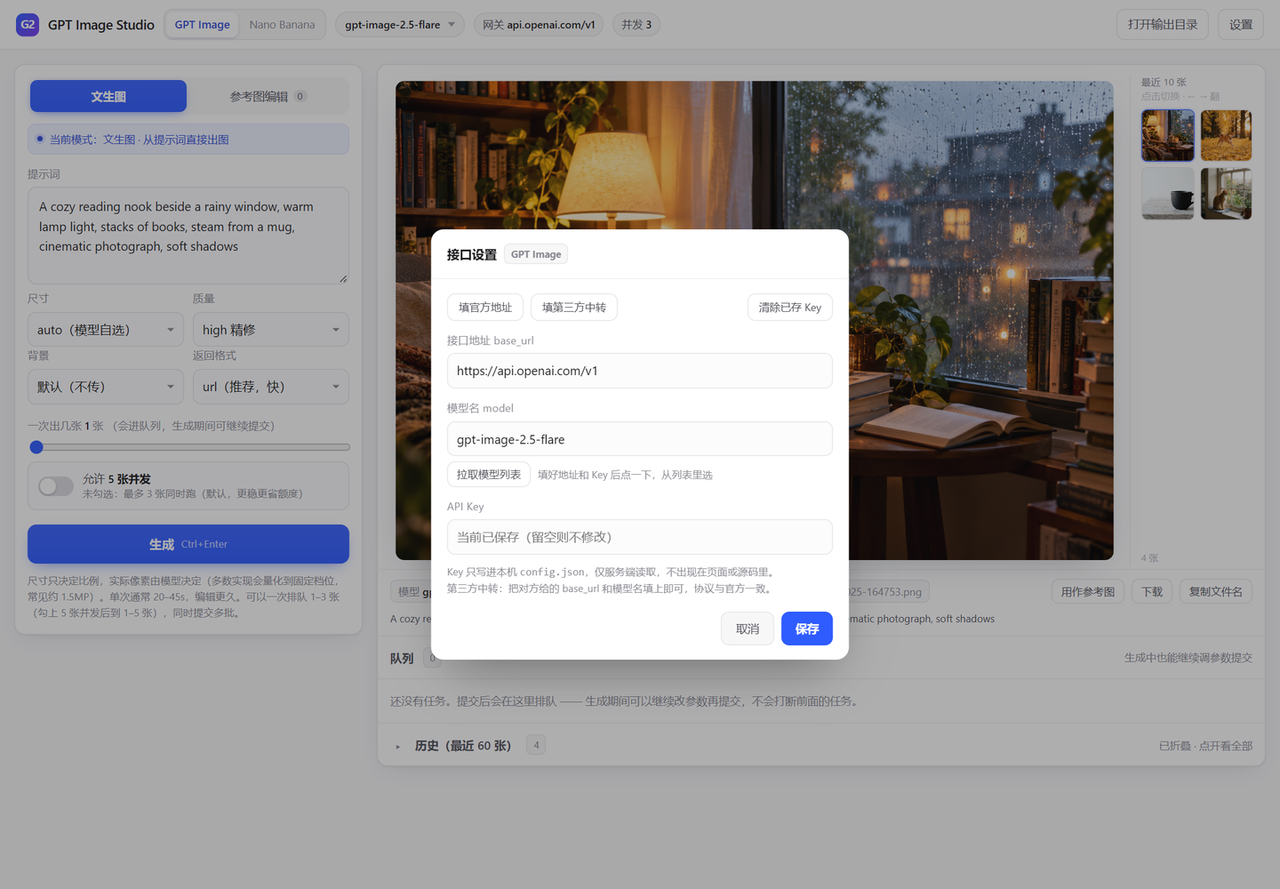
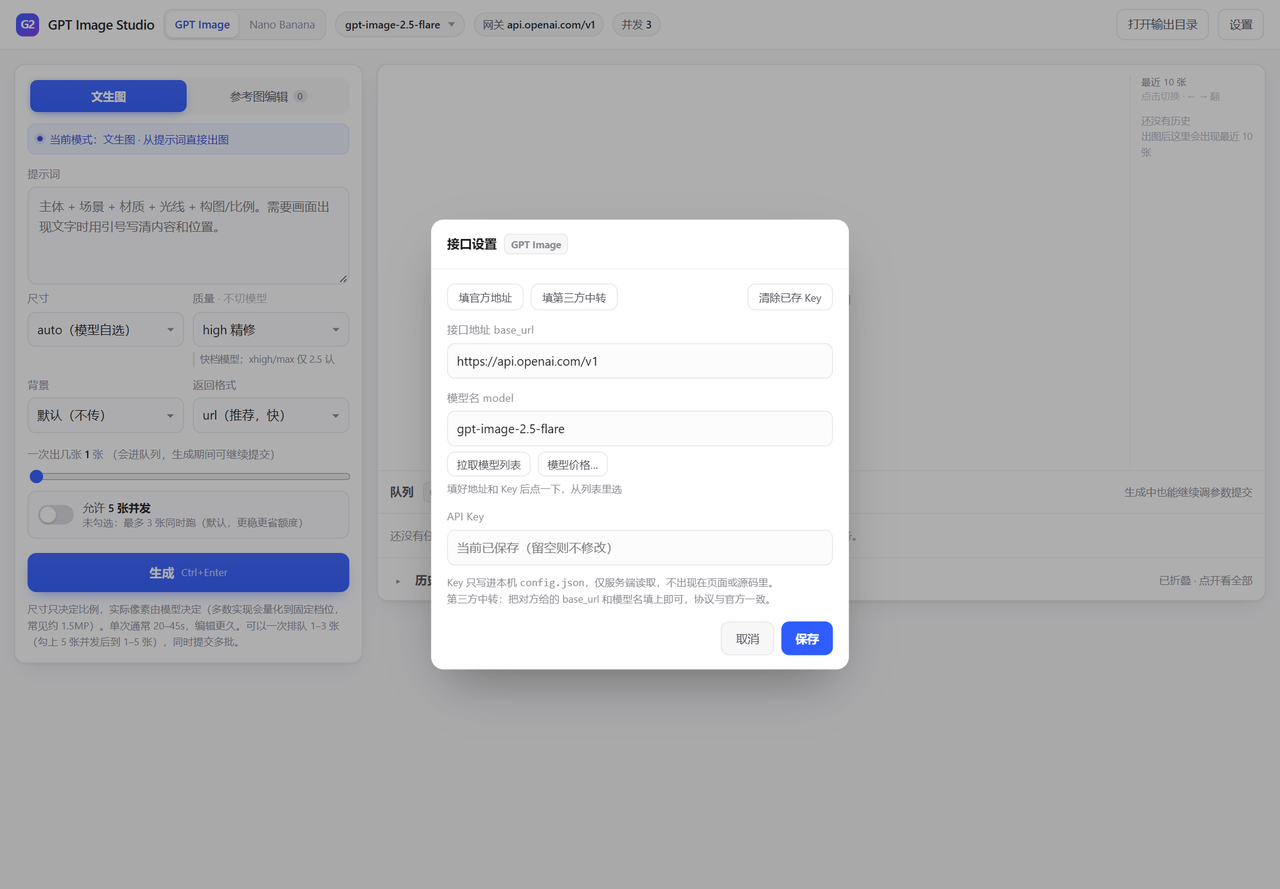
feat(prices): edit model prices in the UI, prune them when models disappear
Prices used to be a hard-coded table. Models come and go on a gateway
(the nano key lost three of its four models overnight), so they now
belong to the user.

- new 价格… panel (from the model menu, or 设置 → 模型价格…) lists the
  models the gateway actually returns, one 元/次 input each, with the
  built-in default shown underneath so an override is obvious
- saving replaces that provider's table: blank = fall back to built-in
  default, or "未设" when there is none
- fetching the model list now reconciles: custom prices for models that
  vanished are deleted and reported in a toast, so nobody keeps paying
  attention to a model that no longer exists
- config.json stores prices per provider and migrates the old flat map
- read-modify-write of config.json is serialised; both providers fetch
  their model lists in parallel and used to overwrite each other's prune

diff --git a/studio/index.html b/studio/index.html
@@ -294,6 +294,19 @@
   .modal .box .ft button{border:0;border-radius:9px;padding:8px 16px;font-size:13px}
   .modal .box .ft .ok{background:var(--accent);color:#fff;font-weight:600}
   .modal .box .ft .no{background:var(--bg);border:1px solid var(--line);color:var(--ink-2)}
+  .modal .box.wide{width:min(600px,100%)}
+
+  /* 价格表 */
+  .pricelist{max-height:44vh;overflow:auto;margin:10px 0 6px;border-top:1px solid var(--line-2)}
+  .pmodel{display:grid;grid-template-columns:minmax(0,1fr) 92px 44px;gap:8px;align-items:center;
+    padding:7px 2px;border-bottom:1px solid var(--line-2);cursor:text}
+  .pmodel .name{min-width:0;font-size:12px;font-family:ui-monospace,SFMono-Regular,Consolas,monospace}
+  .pmodel .name b{display:block;font-weight:500;overflow:hidden;text-overflow:ellipsis;white-space:nowrap}
+  .pmodel .name small{display:block;color:var(--ink-3);font-size:10.5px;margin-top:1px;
+    font-family:-apple-system,BlinkMacSystemFont,"Segoe UI","PingFang SC",sans-serif}
+  .pmodel input{width:100%;padding:5px 8px;font-size:12.5px;text-align:right}
+  .pmodel .unit{font-size:11.5px;color:var(--ink-3)}
+  .pricelist .plempty{font-size:12px;color:var(--ink-3);line-height:1.7;padding:12px 2px}
   .err{background:#fef2f2;border:1px solid #fecaca;color:#991b1b;border-radius:9px;padding:9px 11px;
     font-size:12px;margin-top:12px;word-break:break-all;display:none}
   code{font-family:ui-monospace,SFMono-Regular,Consolas,monospace;font-size:12px}
@@ -497,13 +510,28 @@
       <datalist id="modelList"></datalist>
       <div style="display:flex;align-items:center;gap:8px;margin-top:6px">
         <button class="ghost" id="pullModels" style="padding:4px 10px;font-size:12px">拉取模型列表</button>
-        <span id="modelHint" style="font-size:11.5px;color:var(--ink-3)">填好地址和 Key 后点一下，从列表里选</span>
+        <button class="ghost" id="openPrices" style="padding:4px 10px;font-size:12px">模型价格…</button>
       </div>
+      <div id="modelHint" style="font-size:11.5px;color:var(--ink-3);margin-top:5px">填好地址和 Key 后点一下，从列表里选</div>
       <label class="f">API Key</label>
       <input type="password" id="cfgKey" placeholder="留空表示不修改当前 Key" />
       <div class="hint" id="cfgHint">Key 只写进本机 <code>config.json</code>，仅服务端读取，不出现在页面或源码里。<br />两个接口各自的地址和 Key 分开保存，切到哪个就在哪个下面填。</div>
     </div>
     <div class="ft"><button class="no" id="cfgCancel">取消</button><button class="ok" id="cfgSave">保存</button></div>
+  </div>
+</div>
+
+<div class="modal" id="priceModal">
+  <div class="box wide">
+    <h3>模型价格 <span class="badge" id="priceWho">GPT Image</span></h3>
+    <div class="bd">
+      <div class="hint" id="priceIntro" style="margin-top:0">
+        价格只影响界面上的「约 ¥x」和提交前的估算，<b>不参与计费</b>。留空就是「价格未知」。
+      </div>
+      <div class="pricelist" id="priceRows"></div>
+      <div class="hint">拉取模型列表时会自动删掉已下架模型的价格；新加的模型没填就显示「未设」。</div>
+    </div>
+    <div class="ft"><button class="no" id="priceCancel">取消</button><button class="ok" id="priceSave">保存</button></div>
   </div>
 </div>
 
@@ -545,6 +573,8 @@ const state = {
   model: { gpt: "", nano: "" },
   hasKey: { gpt: false, nano: false },
   prices: {},
+  pricesCustom: {},
+  pricesBuiltin: {},
   history: [],
 };
 
@@ -592,6 +622,11 @@ async function ensureModels(p, force){
     const r = await post("/api/models", { provider: p });
     if(r.ok){
       state.models[p] = r.models || [];
+      if(r.prices){ state.prices = r.prices; state.pricesCustom = r.prices_custom || {}; }
+      const dropped = r.dropped_prices || [];
+      if(dropped.length){
+        toast("已自动清理 " + dropped.length + " 个下架模型的价格", "warn");
+      }
       const next = pickDefaultModel(p);
       if(next && next !== state.model[p]){
         state.model[p] = next;
@@ -634,8 +669,9 @@ function renderPicker(){
     }
   }
   html += `<div class="mfoot"><button id="miRefresh">↻ 重新拉取</button>
+      <button id="miPrices">价格…</button>
       <button id="miSettings">设置</button>
-      <span>价格按服务商定价页填写，仅供参考</span></div>`;
+      <span>价格可自定义，仅用于显示</span></div>`;
   $("#modelMenu").innerHTML = html;
 
   $$("#modelMenu .mi").forEach(b => b.onclick = () => {
@@ -651,6 +687,7 @@ function renderPicker(){
     toast(state.models[state.provider].length ? "模型列表已更新" : "没拉到模型，检查地址和 Key", "warn");
   };
   $("#miSettings").onclick = () => { toggleMenu(false); openSettings(); };
+  $("#miPrices").onclick = () => { toggleMenu(false); openPrices(); };
 }
 
 function toggleMenu(on){
@@ -685,6 +722,8 @@ async function loadConfig(){
   catch(e){ showErr("读不到服务端配置，确认 python studio/server.py 还在跑"); return; }
   state.provider = cfg.provider === "nano" ? "nano" : "gpt";
   state.prices = cfg.prices || {};
+  state.pricesCustom = cfg.prices_custom || {};
+  state.pricesBuiltin = cfg.prices_builtin || {};
   state.base = {};
   ["gpt", "nano"].forEach(p => {
     const c = cfg.providers[p];
@@ -696,6 +735,13 @@ async function loadConfig(){
   applyProviderUI();
   renderPicker();
   await Promise.all([ensureModels("gpt"), ensureModels("nano")]);
+  // 两套模型是并发拉的，价格清理可能互相覆盖成旧值，最后再对齐一次
+  try{
+    const fresh = await get("/api/config");
+    state.prices = fresh.prices || state.prices;
+    state.pricesCustom = fresh.prices_custom || state.pricesCustom;
+    state.pricesBuiltin = fresh.prices_builtin || state.pricesBuiltin;
+  }catch(e){}
   applyProviderUI(); renderPicker(); renderHeader(); renderQuality(); renderCountHint();
   if(!state.hasKey.gpt && !state.hasKey.nano){
     showErr("还没有配置 API Key —— 在右上角「设置」里填一下就能开始。");
@@ -1032,7 +1078,7 @@ $("#count").oninput = () => { $("#countVal").textContent = $("#count").value; re
 $("#run").onclick = run;
 document.addEventListener("keydown", (e) => {
   if((e.ctrlKey || e.metaKey) && e.key === "Enter"){ e.preventDefault(); run(); }
-  if(e.key === "Escape"){ toggleMenu(false); $("#modal").classList.remove("on"); }
+  if(e.key === "Escape"){ toggleMenu(false); $("#modal").classList.remove("on"); $("#priceModal").classList.remove("on"); }
 });
 
 async function run(){
@@ -1346,6 +1392,61 @@ function openSettings(){
 }
 $("#btnSettings").onclick = openSettings;
 $("#cfgCancel").onclick = () => $("#modal").classList.remove("on");
+
+/* ---------- 模型价格 ---------- */
+function openPrices(){
+  const p = state.provider;
+  $("#priceWho").textContent = PROVIDER_LABEL[p];
+  const list = state.models[p] || [];
+  if(!list.length){
+    $("#priceRows").innerHTML = `<div class="plempty">还没拉到模型列表。<br>先在上面「设置」里填好地址和 Key，点「拉取模型列表」，这里就会出现每个模型的价格输入框。</div>`;
+  }else{
+    $("#priceRows").innerHTML = list.map(m => {
+      const cur = state.pricesCustom[m.id];
+      const def = state.pricesBuiltin[m.id];
+      let note;
+      if(cur != null){
+        note = def != null ? `<small>内置 ${yuan(def)}/次 · 已自定义</small>` : `<small>已自定义</small>`;
+      }else if(def != null){
+        note = `<small>内置 ${yuan(def)}/次</small>`;
+      }else{
+        note = m.image ? `<small>未设价格</small>` : `<small>非图像模型</small>`;
+      }
+      return `<label class="pmodel">
+        <span class="name"><b title="${esc(m.id)}">${esc(m.id)}</b>${note}</span>
+        <input type="number" min="0" step="0.001" inputmode="decimal" data-id="${esc(m.id)}"
+          value="${cur != null ? cur : ""}" placeholder="${def != null ? def : "未设"}" />
+        <span class="unit">元/次</span>
+      </label>`;
+    }).join("");
+  }
+  $("#modal").classList.remove("on");
+  $("#priceModal").classList.add("on");
+}
+$("#openPrices").onclick = openPrices;
+$("#priceCancel").onclick = () => $("#priceModal").classList.remove("on");
+$("#priceSave").onclick = async () => {
+  const inputs = $$("#priceRows input");
+  if(!inputs.length){ toast("没有可保存的模型，先拉取模型列表", "warn"); return; }
+  const prices = {};
+  inputs.forEach(inp => {
+    const raw = inp.value.trim();
+    const n = Number(raw);
+    if(raw !== "" && isFinite(n) && n > 0) prices[inp.dataset.id] = n;
+  });
+  const r = await post("/api/prices", { provider: state.provider, prices });
+  if(r && r.ok){
+    state.prices = r.prices || {};
+    state.pricesCustom = r.prices_custom || {};
+    $("#priceModal").classList.remove("on");
+    renderPicker(); renderCountHint();
+    const n = Object.keys(prices).length;
+    toast(n ? ("价格已保存：" + n + " 个模型") : "价格已清空（都按未知显示）", "ok");
+  }else{
+    toast("保存失败，看下控制台", "warn");
+  }
+};
+
 $("#presetOfficial").onclick = () => {
   $("#cfgBase").value = OFFICIAL[state.provider].base;
   $("#cfgModel").value = OFFICIAL[state.provider].model;
@@ -1392,6 +1493,7 @@ $("#cfgSave").onclick = async () => {
     state.base[state.provider] = c.base_url;
     state.model[state.provider] = c.model;
     state.hasKey[state.provider] = c.has_key;
+    if(r.prices){ state.prices = r.prices; state.pricesCustom = r.prices_custom || {}; }
   }
   $("#modal").classList.remove("on");
   $("#cfgKey").value = "";

diff --git a/docs/models.md b/docs/models.md
@@ -145,7 +145,40 @@ Chat 接口一次只回一张图。想同时出 3 张，就是把同一个请求
 
 ---
 
-## 三、`config.json`
+## 三、价格是怎么来的、怎么改
+
+界面上的 `¥x.xx/次` 只是**展示和估算**，不参与计费 —— 实际扣费由服务商决定。
+
+价格有三个来源，从高到低覆盖：
+
+1. **你自己填的**（存在 `config.json` 的 `prices` 里）
+2. 程序内置的默认表（`studio/server.py` 顶部的 `PRICES_CNY`，写死了几个常见 Gemini 图像模型的参考价）
+3. 都没有 → 显示「未设」，不显示价格
+
+### 在界面里改
+
+模型下拉 → 底部 **「价格…」**（或 设置 → 「模型价格…」）：
+
+- 列表就是当前接口拉到的模型，每个模型一个输入框，单位「元/次」
+- 下面小字会标 `内置 ¥0.18/次` / `已自定义`
+- 留空 = 清掉自定义价格（回到内置默认，没有内置就显示未设）
+- 保存后立刻生效：模型下拉、提交按钮旁的「约 ¥x」、队列和历史里的价格都用新值
+
+### 模型下架了怎么办
+
+**拉取模型列表时会自动对账**：该接口下已经不存在于列表里的模型，它那条自定义价格会被自动删除，
+并弹一条「已自动清理 N 个下架模型的价格」。所以换了服务商、模型改名字、模型下架，都不用手动清。
+
+只在**成功拿到非空列表**时才清理 —— 网关抽风返回空列表不会把你填的价格全抹掉。
+
+### 新模型加进来了
+
+新模型第一次出现在列表里就是「未设价格」，填一次即可。内置表里有的（比如
+`gemini-3.1-flash-image`）会先显示内置值，你觉得不对再覆盖。
+
+---
+
+## 四、`config.json`
 
 两套接口的地址、Key、模型分开存，切换界面不会互相覆盖：
 
@@ -156,17 +189,21 @@ Chat 接口一次只回一张图。想同时出 3 张，就是把同一个请求
   "gpt":  { "base_url": "https://api.openai.com/v1", "api_key": "sk-...", "model": "gpt-image-2.5-flare" },
   "nano": { "base_url": "https://generativelanguage.googleapis.com/v1beta/openai",
             "api_key": "AIza...", "model": "gemini-3.1-flash-image" },
-  "prices": { "gemini-3.1-flash-image": 0.18 }
+  "prices": {
+    "gpt":  { "gpt-image-2": 0.06 },
+    "nano": { "gemini-3.1-flash-image": 0.2 }
+  }
 }
 ```
 
-- `prices` 用来覆盖界面上的参考价（元/次），只影响显示，不影响计费
-- 旧版平铺的 `{base_url, api_key, model}` 会在启动时自动迁移进 `gpt`
+- `prices` 按接口分组，只影响显示，不影响计费；也可以在界面里改，没必要手编
+- 旧版平铺的 `prices: {"模型名": 0.18}` 会在启动时自动迁移，按模型名归到 `gpt` 或 `nano`
+- 旧的 `{base_url, api_key, model}` 平铺配置同样会自动迁移进 `gpt`
 - 这个文件在 `.gitignore` 里，不会进仓库
 
 ---
 
-## 四、常见报错
+## 五、常见报错
 
 | 现象 | 原因 / 处理 |
 |---|---|

diff --git a/README.md b/README.md
@@ -14,7 +14,7 @@
 - **零依赖**：只用 Python 标准库。不需要 `pip install`，官方 CPython / Windows 嵌入式版 / ComfyUI 内置 Python 都能直接跑
 - **自带 Key**：直连官方，或任何同协议的第三方中转，不经过第三方计费
 - **两套接口，一键切换**：左上角在 **GPT Image**（`/images/generations` + `/images/edits`）和 **Nano Banana**（Gemini 图像模型的 `/chat/completions`）之间切，模型列表、参数面板、价格显示一起换
-- **模型带价格**：下拉里直接标出每个模型每次多少钱，挑之前先知道花多少
+- **模型带价格，价格能自己改**：下拉里直接标出每个模型每次多少钱；模型不用了、换了新模型，都在「价格…」里自己填，拉取列表时已下架的模型价格会自动清掉
 - **拖到哪儿都行**：图片拖进窗口任意位置即可当参考图，不用瞄准那个小方框；文生图模式下会自动切到「参考图编辑」。Ctrl+V 粘贴同理
 - **右侧最近 10 张**：图片显示区右边竖排两列最近结果，来回切换对比不用往下翻；`←` `→` 也能翻
 - **历史默认折叠**：最近 60 张还在，只是不再占满页面，需要时点开
@@ -65,7 +65,7 @@ python studio/server.py --open
 | 位置 | 作用 |
 |---|---|
 | 左上「GPT Image / Nano Banana」 | 切换接口。模型列表、参数面板、配色一起换 |
-| 模型下拉 | 列出网关 `/v1/models` 返回的模型；有价格的会显示 `¥x.xx/次` |
+| 模型下拉 | 列出网关 `/v1/models` 返回的模型；有价格的会显示 `¥x.xx/次`。底部「价格…」可以自己改 |
 | 右上「设置」 | 当前接口的 base_url / 模型 / Key，「拉取模型列表」也在这里 |
 | 中间画布 | 显示当前图，打开时是空的 |
 | 画布右侧两列 | 最近 10 张，点一下就在画布上切换；`←` `→` 翻 |
@@ -84,7 +84,8 @@ python studio/server.py --open
 - **Nano Banana 是对话式接口**：没有独立的「编辑」端点，参考图是多模态输入的一部分；
   没有质量/背景参数；**画幅比例只能靠提示词**（网关通常不透传 `image_config`），
   界面上的比例选择器会把「画面比例 9:16」追加到你的提示词后面
-- 模型后面的价格来自服务商公开定价页，**仅展示**，可在 `config.json` 的 `prices` 里改
+- 模型后面的价格来自内置表或你自己填的值，**仅展示，不影响计费**；在模型下拉的「价格…」里随时改，
+  拉取模型列表时会自动删掉已下架模型的价格（详见 [docs/models.md](docs/models.md#三价格是怎么来的怎么改)）
 
 ### GPT Image 参数
 
